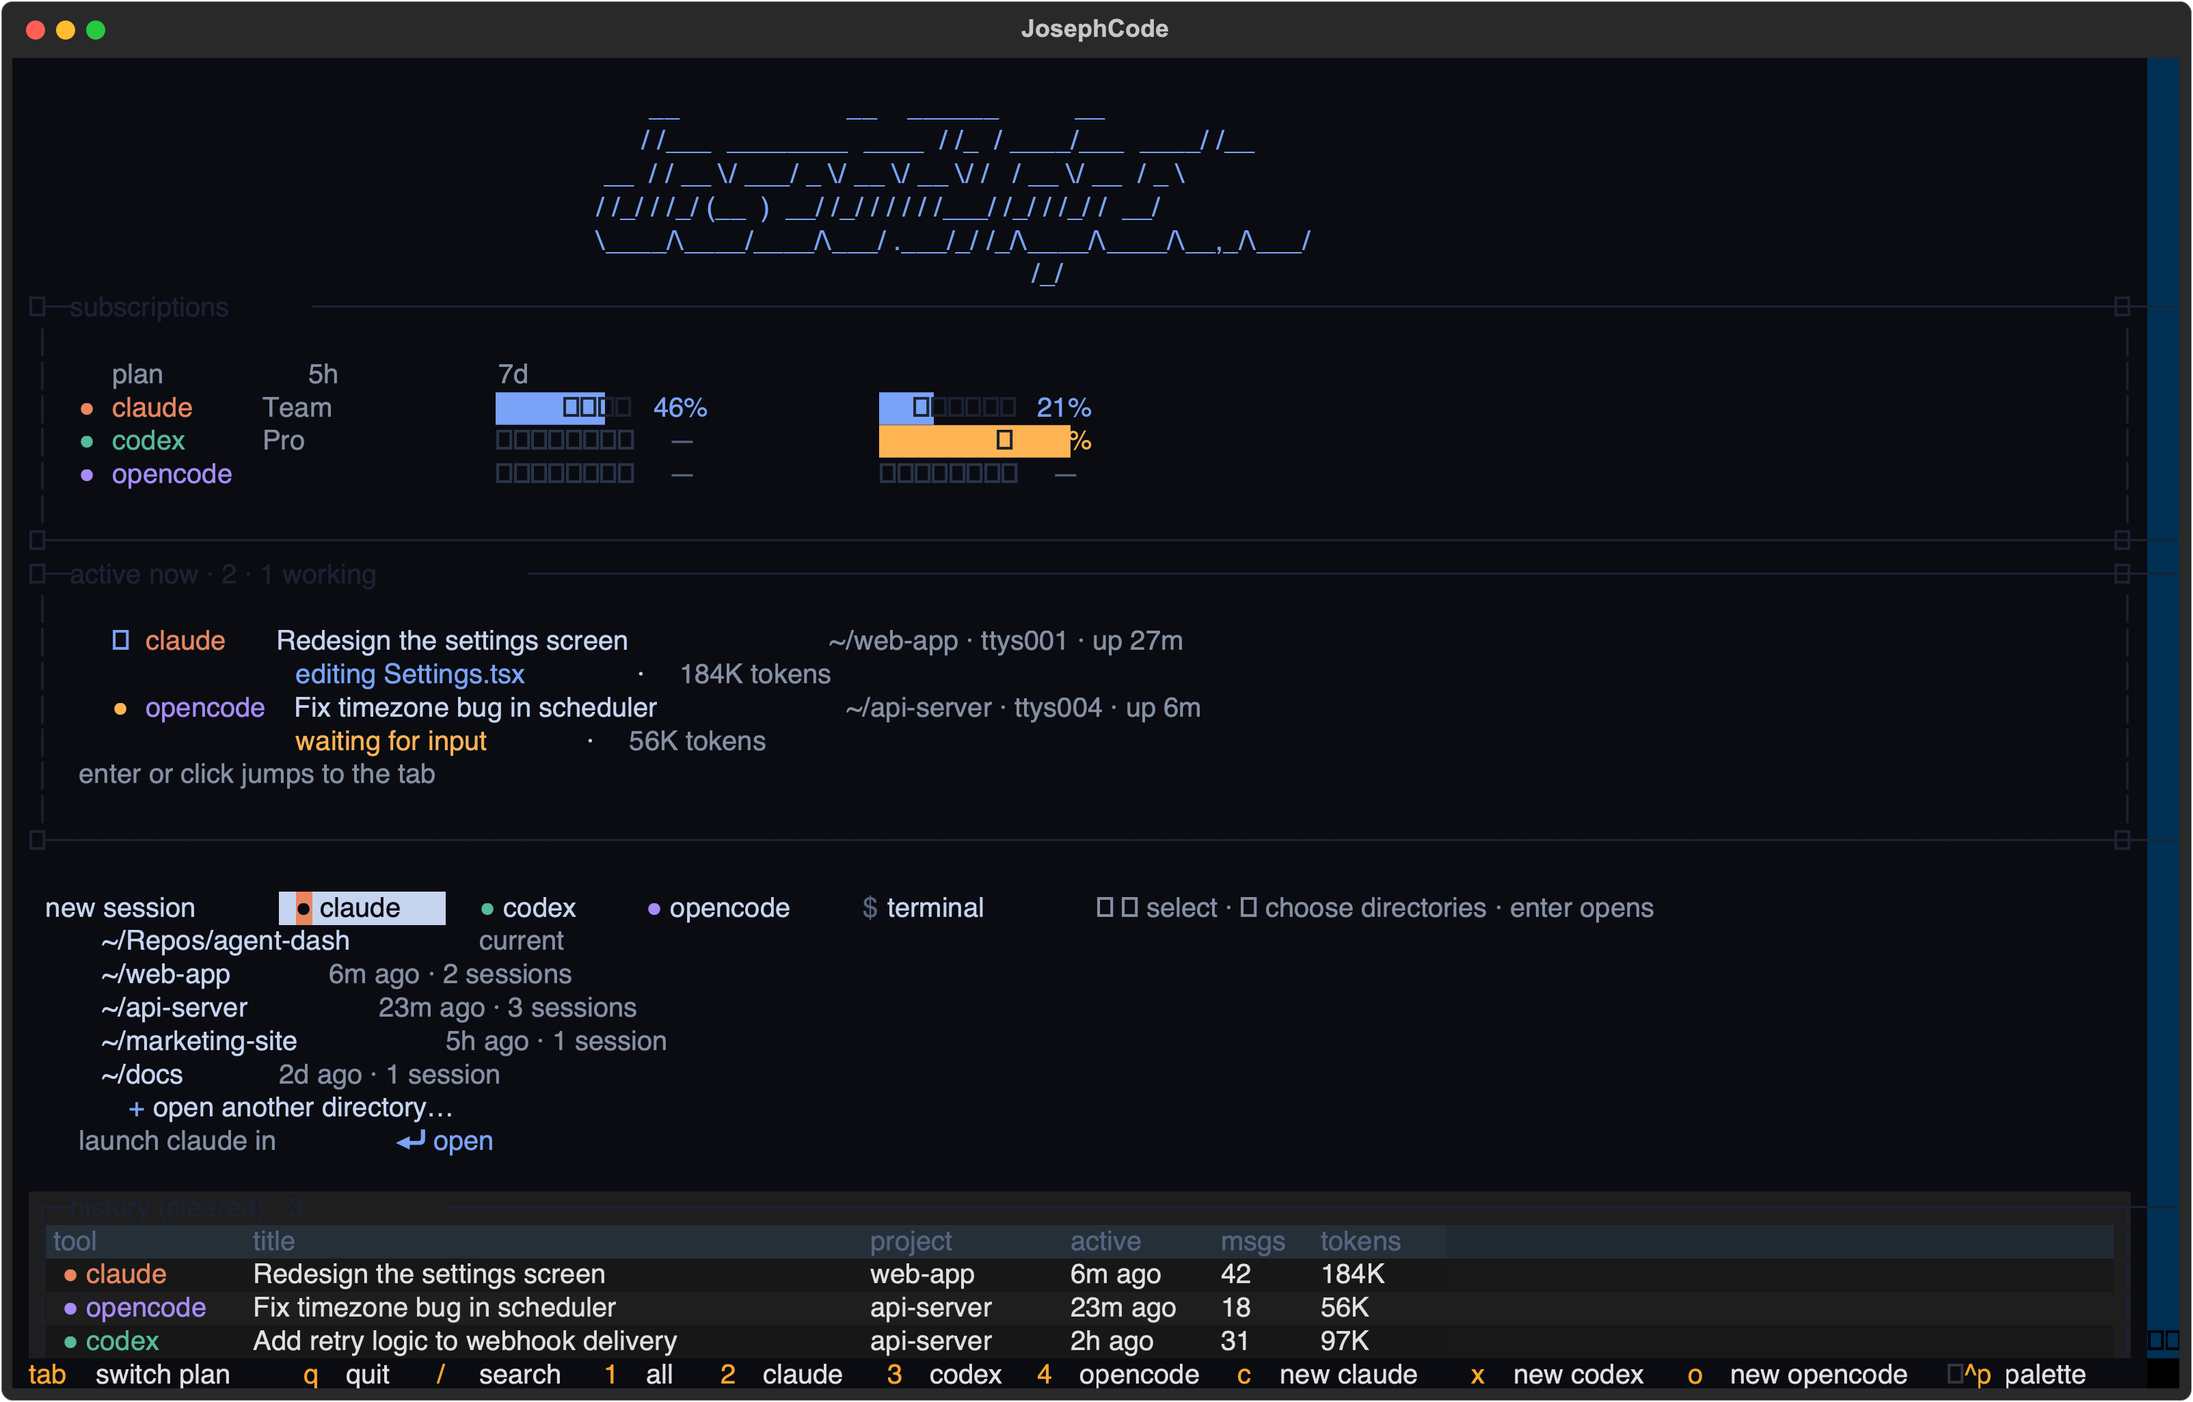
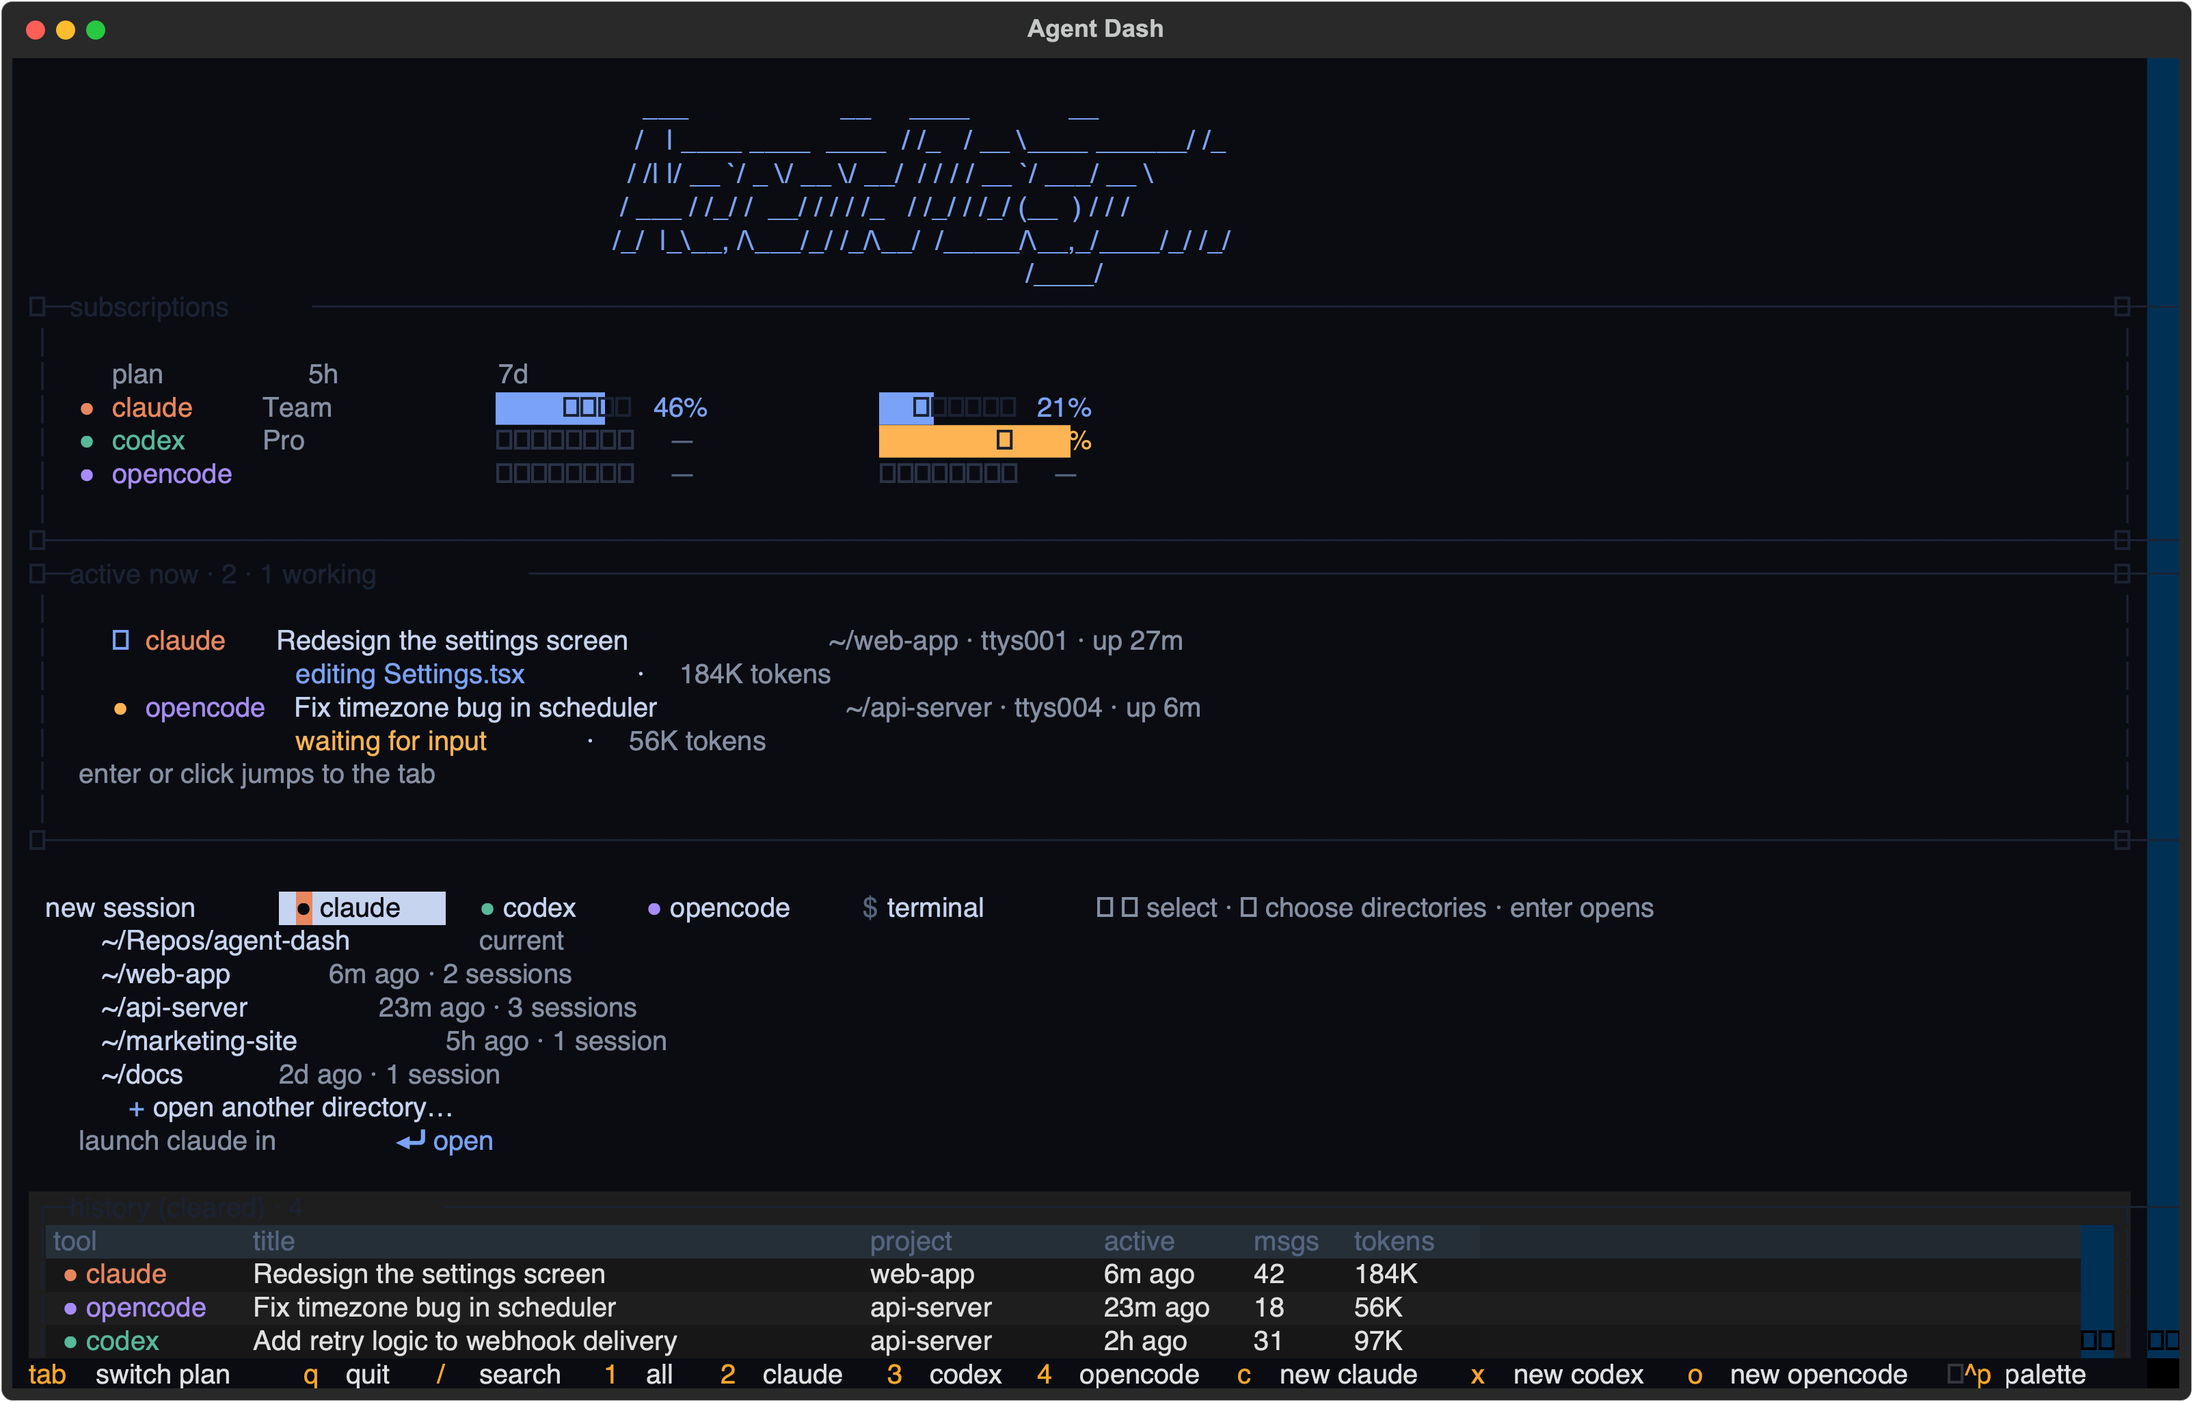
feat: rebrand to Agent Dash and add an instrument self-test boot sweep
Rename the "JosephCode" brand to "Agent Dash" everywhere it surfaced: the
figlet banner, the app title, the Warp tab title, and the generated tab-config
filename prefix (josephcode- -> agentdash-). Regenerate the README hero images
(adash.svg/adash.png) so they carry the new name.

Add a boot animation in the chosen "instrument panel" direction: on the first
usage load every subscription gauge runs a needle self-test, rising from 0 to a
full-scale peg and then easing down to its true reading, while the banner powers
on with an opacity fade. The sweep reuses the existing bar render via a pure
_sweep_pct() curve, so bar fill, percent, and color all track the swept value.
BYOK spend rows (opencode) have no gauge and sit the sweep out.

The screenshot script now waits for the sweep to settle before capturing, so
the hero shows the resting dashboard rather than a mid-sweep frame.

Tests: pure _sweep_pct() curve is unit-tested (peg-then-settle, monotonicity,
None passthrough, envelope); banner-width test now tracks BANNER_TEXT instead of
a hardcoded string. 75 passing.

diff --git a/app.py b/app.py
@@ -35,7 +35,7 @@ USAGE_PCT_W = 4  # right-aligned percent, e.g. " 16%", "100%"
 USAGE_CELL_W = USAGE_BAR_W + 1 + USAGE_PCT_W + 1 + USAGE_RESET_W
 USAGE_GAP = "   "  # between the 5h and 7d columns
 MAX_ACTIVE_ROWS = 6
-BANNER_TEXT = "JosephCode"
+BANNER_TEXT = "Agent Dash"
 BANNER_FONTS = ("slant", "small")  # widest first; each is measured before use
 # columns never available to the banner: its own padding (2 per side) plus the
 # screen's vertical scrollbar, assumed always present so the art still fits if
@@ -51,6 +51,11 @@ ACTIVE_POLL_SECONDS = 2.0  # live activity refresh (cheap: file reads + one ps)
 # this stays slow on purpose: the 5h/7d bars move far too gradually to be worth
 # a tighter loop. usage.py caches on top of this and backs off on a 429.
 USAGE_POLL_SECONDS = 180.0
+# Boot "self-test" sweep: on the first usage load every gauge rises to a
+# full-scale peg, then eases down to its true reading, the way an instrument
+# panel runs its needle sweep at ignition. _boot goes 0 -> 1 over these seconds.
+BOOT_SWEEP_SECONDS = 0.85
+_BOOT_PEAK = 0.55  # fraction of the sweep spent rising to the peg before settling
 
 
 def _banner_art(width: int) -> str:
@@ -96,6 +101,26 @@ def _fmt_reset_compact(dt: datetime | None) -> str:
     return local.strftime("%b%d")
 
 
+def _ease_out(t: float) -> float:
+    """Cubic ease-out (fast start, gentle stop) — a needle easing into place."""
+    t = max(0.0, min(1.0, t))
+    return 1.0 - (1.0 - t) ** 3
+
+
+def _sweep_pct(true_pct: float | None, progress: float) -> float | None:
+    """Reading a gauge shows at boot frame `progress` (0..1): it rises from 0 to
+    a full-scale peg, then eases down to its true value — an instrument self-test
+    sweep. A window a tool doesn't report (None) stays None the whole way."""
+    if true_pct is None:
+        return None
+    if progress >= 1.0:
+        return true_pct
+    if progress <= _BOOT_PEAK:  # rising to the peg
+        return 100.0 * _ease_out(progress / _BOOT_PEAK)
+    settle = _ease_out((progress - _BOOT_PEAK) / (1.0 - _BOOT_PEAK))  # peg -> true
+    return 100.0 + (true_pct - 100.0) * settle
+
+
 def _usage_bar(pct: float | None) -> str:
     """Mini bar of exactly USAGE_BAR_W visible columns for the aligned grid."""
     if pct is None:
@@ -104,13 +129,17 @@ def _usage_bar(pct: float | None) -> str:
     return f"[{_usage_color(pct)}]{'█' * filled}[/][#1b2233]{'░' * (USAGE_BAR_W - filled)}[/]"
 
 
-def _window_cell(win: "UsageWindow | None") -> str:
+def _window_cell(win: "UsageWindow | None", progress: float = 1.0) -> str:
     """A fixed-width (USAGE_CELL_W) cell: mini-bar + percent + compact reset.
 
     A missing window (a tool that doesn't report this limit) renders as an empty
     bar with a dim dash, so the column still lines up with its neighbors.
+    `progress` < 1.0 sweeps the reading during the boot self-test; the bar,
+    percent, and color all track the swept value so the whole cell animates.
     """
     pct = win.pct if win else None
+    if progress < 1.0:
+        pct = _sweep_pct(pct, progress)
     bar = _usage_bar(pct)
     if pct is None:
         pct_markup = f"[#55647f]{'—'.rjust(USAGE_PCT_W)}[/]"
@@ -222,7 +251,7 @@ def _write_tab_config(tool: str, cwd: str, configs_dir: Path, suffix: str = "", 
     command (used to point claude at a non-default CLAUDE_CONFIG_DIR account).
     When the tool has no command (terminal), the tab opens a bare shell.
     """
-    stem = f"josephcode-{tool}" + (f"-{suffix}" if suffix else "")
+    stem = f"agentdash-{tool}" + (f"-{suffix}" if suffix else "")
     label = "terminal" if tool == "terminal" else tool
     lines = [
         f'name = "{label} · {Path(cwd).name or cwd}"',
@@ -308,7 +337,7 @@ class _ActivePanel(Static):
 
 
 class AdashApp(App):
-    TITLE = "JosephCode"
+    TITLE = "Agent Dash"
 
     CSS = """
     Screen {
@@ -401,6 +430,12 @@ class AdashApp(App):
         self._spin = 0  # spinner frame for working agents
         self.active_claude: str | None = None  # active claude plan label (multi-account)
         self.cleared_at = _load_cleared()
+        # boot self-test sweep: 1.0 means "settled" (true readings) so any render
+        # before the animation shows real values; the first usage load drops it to
+        # 0.0 and animates it back to 1.0, sweeping every gauge on the way up.
+        self._boot = 1.0
+        self._boot_started = False
+        self._boot_timer = None
 
     def compose(self) -> ComposeResult:
         yield Static(id="banner")
@@ -427,6 +462,7 @@ class AdashApp(App):
         self.query_one("#active", Static).border_title = "active now"
         self.query_one("#usage", Static).border_title = "subscriptions"
         self._render_banner()
+        self._power_on_banner()
         self.dirs = self._recent_dirs()
         self._render_launch()
         self._render_picker()
@@ -443,6 +479,31 @@ class AdashApp(App):
         if any(a.state == "working" for a in self.running):
             self._spin += 1
             self._render_active()
+
+    # ------------------------------------------------------------- boot sweep
+
+    def _power_on_banner(self) -> None:
+        """Fade the banner up from dark, like an instrument display lighting up.
+        Opacity is a style, not content, so this never touches the figlet art."""
+        try:
+            banner = self.query_one("#banner", Static)
+            banner.styles.opacity = 0.0
+            banner.styles.animate("opacity", value=1.0, duration=0.5)
+        except Exception:
+            pass  # animation is decorative; never let it block boot
+
+    def _start_boot_sweep(self) -> None:
+        """Run the gauge self-test: sweep _boot 0 -> 1 and re-render each frame."""
+        self._boot = 0.0
+        step = 1.0 / 30.0  # ~30fps
+        self._boot_timer = self.set_interval(step, lambda: self._advance_boot(step))
+
+    def _advance_boot(self, step: float) -> None:
+        self._boot = min(1.0, self._boot + step / BOOT_SWEEP_SECONDS)
+        self._render_usage()
+        if self._boot >= 1.0 and self._boot_timer is not None:
+            self._boot_timer.stop()
+            self._boot_timer = None
 
     # ------------------------------------------------------------- chrome
 
@@ -736,6 +797,11 @@ class AdashApp(App):
             self.active_claude = next(
                 (u.label for u in usages if u.tool == "claude" and u.label and u.active), None
             )
+        # the gauges only mean anything once they have data, so the self-test
+        # sweep waits for the first load rather than firing on an empty panel
+        if not self._boot_started and usages:
+            self._boot_started = True
+            self._start_boot_sweep()
         self._render_usage()
 
     def _usage_prefix(self, usage: ToolUsage) -> str:
@@ -787,9 +853,10 @@ class AdashApp(App):
                 lines.append(f"{prefix}{empty}{USAGE_GAP}{spend_cell}")
                 continue
             windows = {w.label: w for w in usage.windows}
-            row = f"{prefix}{_window_cell(windows.get('5h'))}{USAGE_GAP}{_window_cell(windows.get('7d'))}"
+            p = self._boot
+            row = f"{prefix}{_window_cell(windows.get('5h'), p)}{USAGE_GAP}{_window_cell(windows.get('7d'), p)}"
             if extra and extra in windows:  # this plan has the scoped limit; add its cell
-                row += f"{USAGE_GAP}{_window_cell(windows[extra])}"
+                row += f"{USAGE_GAP}{_window_cell(windows[extra], p)}"
             if usage.stale and marker_room >= 6:  # cached bars: say so after them
                 mark = _truncate(usage.stale, marker_room)
                 row += f"{USAGE_GAP}[dim]{escape(mark)}[/]"

diff --git a/tests/test_adash.py b/tests/test_adash.py
@@ -309,8 +309,8 @@ def test_app_new_session_opens_warp_tab(tmp_path: Path, monkeypatch: pytest.Monk
 
     asyncio.run(run())
     slug = app_module._dir_slug(os.getcwd())
-    assert opened == [["open", f"warp://tab_config/josephcode-codex-{slug}"]]
-    config = (tmp_path / "tab_configs" / f"josephcode-codex-{slug}.toml").read_text()
+    assert opened == [["open", f"warp://tab_config/agentdash-codex-{slug}"]]
+    config = (tmp_path / "tab_configs" / f"agentdash-codex-{slug}.toml").read_text()
     assert 'commands = ["codex"]' in config
     assert f'directory = "{os.getcwd()}"' in config
 
@@ -318,7 +318,7 @@ def test_app_new_session_opens_warp_tab(tmp_path: Path, monkeypatch: pytest.Monk
 def test_banner_art_picks_a_font_that_fits():
     import pyfiglet
 
-    arts = [pyfiglet.figlet_format("JosephCode", font=f).rstrip() for f in app_module.BANNER_FONTS]
+    arts = [pyfiglet.figlet_format(app_module.BANNER_TEXT, font=f).rstrip() for f in app_module.BANNER_FONTS]
     widths = [max(len(line) for line in art.splitlines()) for art in arts]
 
     assert widths == sorted(widths, reverse=True), "BANNER_FONTS must be widest-first"
@@ -326,6 +326,30 @@ def test_banner_art_picks_a_font_that_fits():
     assert app_module._banner_art(widths[0] - 1) == arts[1]
     assert app_module._banner_art(widths[-1]) == arts[-1]
     assert app_module._banner_art(widths[-1] - 1) == ""  # nothing fits: plain-text fallback
+
+
+def test_boot_sweep_pegs_then_settles_to_true():
+    sweep = app_module._sweep_pct
+    peak = app_module._BOOT_PEAK
+
+    # starts empty, ends at the true reading no matter what that reading is
+    assert sweep(16.0, 0.0) == 0.0
+    assert sweep(16.0, 1.0) == 16.0
+    assert sweep(93.0, 1.0) == 93.0
+    # at the peak of the sweep every gauge is pegged to full scale
+    assert sweep(16.0, peak) == pytest.approx(100.0)
+    assert sweep(93.0, peak) == pytest.approx(100.0)
+    # a window a tool doesn't report stays absent through the whole sweep
+    assert sweep(None, 0.3) is None
+    assert sweep(None, 1.0) is None
+    # monotonic rise up to the peg, monotonic settle down to the true value after
+    rise = [sweep(16.0, p / 100) for p in range(0, int(peak * 100) + 1)]
+    assert rise == sorted(rise)
+    settle = [sweep(16.0, peak + d) for d in (0.0, 0.1, 0.2, (1.0 - peak) - 0.001)]
+    assert settle == sorted(settle, reverse=True)
+    # never overshoots outside the [true, peg] envelope
+    for p in range(0, 101):
+        assert 0.0 <= sweep(16.0, p / 100) <= 100.0
 
 
 def test_banner_never_exceeds_its_width(tmp_path: Path, monkeypatch: pytest.MonkeyPatch):
@@ -782,8 +806,8 @@ def test_launch_tools_includes_terminal():
 
 def test_terminal_tab_config_opens_bare_shell(tmp_path: Path):
     stem = app_module._write_tab_config("terminal", "/tmp/proj", tmp_path)
-    assert stem == "josephcode-terminal"
-    config = (tmp_path / "josephcode-terminal.toml").read_text()
+    assert stem == "agentdash-terminal"
+    config = (tmp_path / "agentdash-terminal.toml").read_text()
     assert 'directory = "/tmp/proj"' in config
     assert "commands" not in config  # a plain shell, no agent command
     assert 'name = "terminal · proj"' in config
@@ -791,7 +815,7 @@ def test_terminal_tab_config_opens_bare_shell(tmp_path: Path):
 
 def test_agent_tab_config_still_has_command(tmp_path: Path):
     app_module._write_tab_config("codex", "/tmp/proj", tmp_path)
-    config = (tmp_path / "josephcode-codex.toml").read_text()
+    config = (tmp_path / "agentdash-codex.toml").read_text()
     assert 'commands = ["codex"]' in config
 
 
@@ -941,8 +965,8 @@ def test_quick_key_launches_claude_in_cwd(tmp_path: Path, monkeypatch: pytest.Mo
 
     asyncio.run(run())
     slug = app_module._dir_slug(os.getcwd())
-    assert opened == [["open", f"warp://tab_config/josephcode-claude-{slug}"]]
-    config = (tmp_path / "tab_configs" / f"josephcode-claude-{slug}.toml").read_text()
+    assert opened == [["open", f"warp://tab_config/agentdash-claude-{slug}"]]
+    config = (tmp_path / "tab_configs" / f"agentdash-claude-{slug}.toml").read_text()
     assert 'commands = ["claude"]' in config
     assert f'directory = "{os.getcwd()}"' in config
 
@@ -971,7 +995,7 @@ def test_inline_picker_opens_a_tab_per_enter(tmp_path: Path, monkeypatch: pytest
     asyncio.run(run())
     assert len(opened) == 2  # cwd + /tmp
     stems = sorted(o[1].split("/")[-1] for o in opened)
-    assert stems == sorted([f"josephcode-claude-{app_module._dir_slug(os.getcwd())}", "josephcode-claude-tmp"])
+    assert stems == sorted([f"agentdash-claude-{app_module._dir_slug(os.getcwd())}", "agentdash-claude-tmp"])
 
 
 def test_picker_launches_selected_tool(tmp_path: Path, monkeypatch: pytest.MonkeyPatch):
@@ -989,7 +1013,7 @@ def test_picker_launches_selected_tool(tmp_path: Path, monkeypatch: pytest.Monke
 
     asyncio.run(run())
     slug = app_module._dir_slug(os.getcwd())
-    assert opened == [["open", f"warp://tab_config/josephcode-codex-{slug}"]]
+    assert opened == [["open", f"warp://tab_config/agentdash-codex-{slug}"]]
 
 
 def test_recent_dirs_pins_cwd_first(monkeypatch: pytest.MonkeyPatch):
@@ -1404,7 +1428,7 @@ def test_other_directory_row_launches_typed_path(tmp_path: Path, monkeypatch: py
 
     asyncio.run(run())
     slug = app_module._dir_slug(str(target))
-    assert opened == [["open", f"warp://tab_config/josephcode-claude-{slug}"]]
+    assert opened == [["open", f"warp://tab_config/agentdash-claude-{slug}"]]
 
 
 def test_other_directory_rejects_missing_path(tmp_path: Path, monkeypatch: pytest.MonkeyPatch):
@@ -1433,7 +1457,7 @@ def test_other_directory_rejects_missing_path(tmp_path: Path, monkeypatch: pytes
 
 def test_focus_warp_tab_stops_after_one_rotation(monkeypatch: pytest.MonkeyPatch):
     # three tabs, none matching the hint; the active tab wraps around the set
-    titles = ["◆ JosephCode", "✳ tab two", "✳ tab three"]
+    titles = ["◆ Agent Dash", "✳ tab two", "✳ tab three"]
     state = {"i": 0}
     calls = []
 

diff --git a/scripts/screenshot.py b/scripts/screenshot.py
@@ -77,6 +77,12 @@ async def main() -> None:
             await pilot.pause(0.1)
             if app.sessions and app.usages and app.running:
                 break
+        # let the boot self-test sweep finish so the hero shows the resting
+        # dashboard (true readings), not a mid-sweep frame with pegged gauges
+        for _ in range(30):
+            if app._boot >= 1.0:
+                break
+            await pilot.pause(0.1)
         await pilot.pause(0.3)
         out = Path(__file__).parent.parent / "adash.svg"
         app.save_screenshot(str(out))

diff --git a/main.py b/main.py
@@ -14,7 +14,7 @@ from collectors import collect_all
 from models import fmt_tokens, rel_time, resume_command
 
 # shown as the Warp tab title while the TUI runs, instead of the raw "adash" command
-TAB_TITLE = "◆ JosephCode"
+TAB_TITLE = "◆ Agent Dash"
 
 
 def set_tab_title(title: str) -> None:
